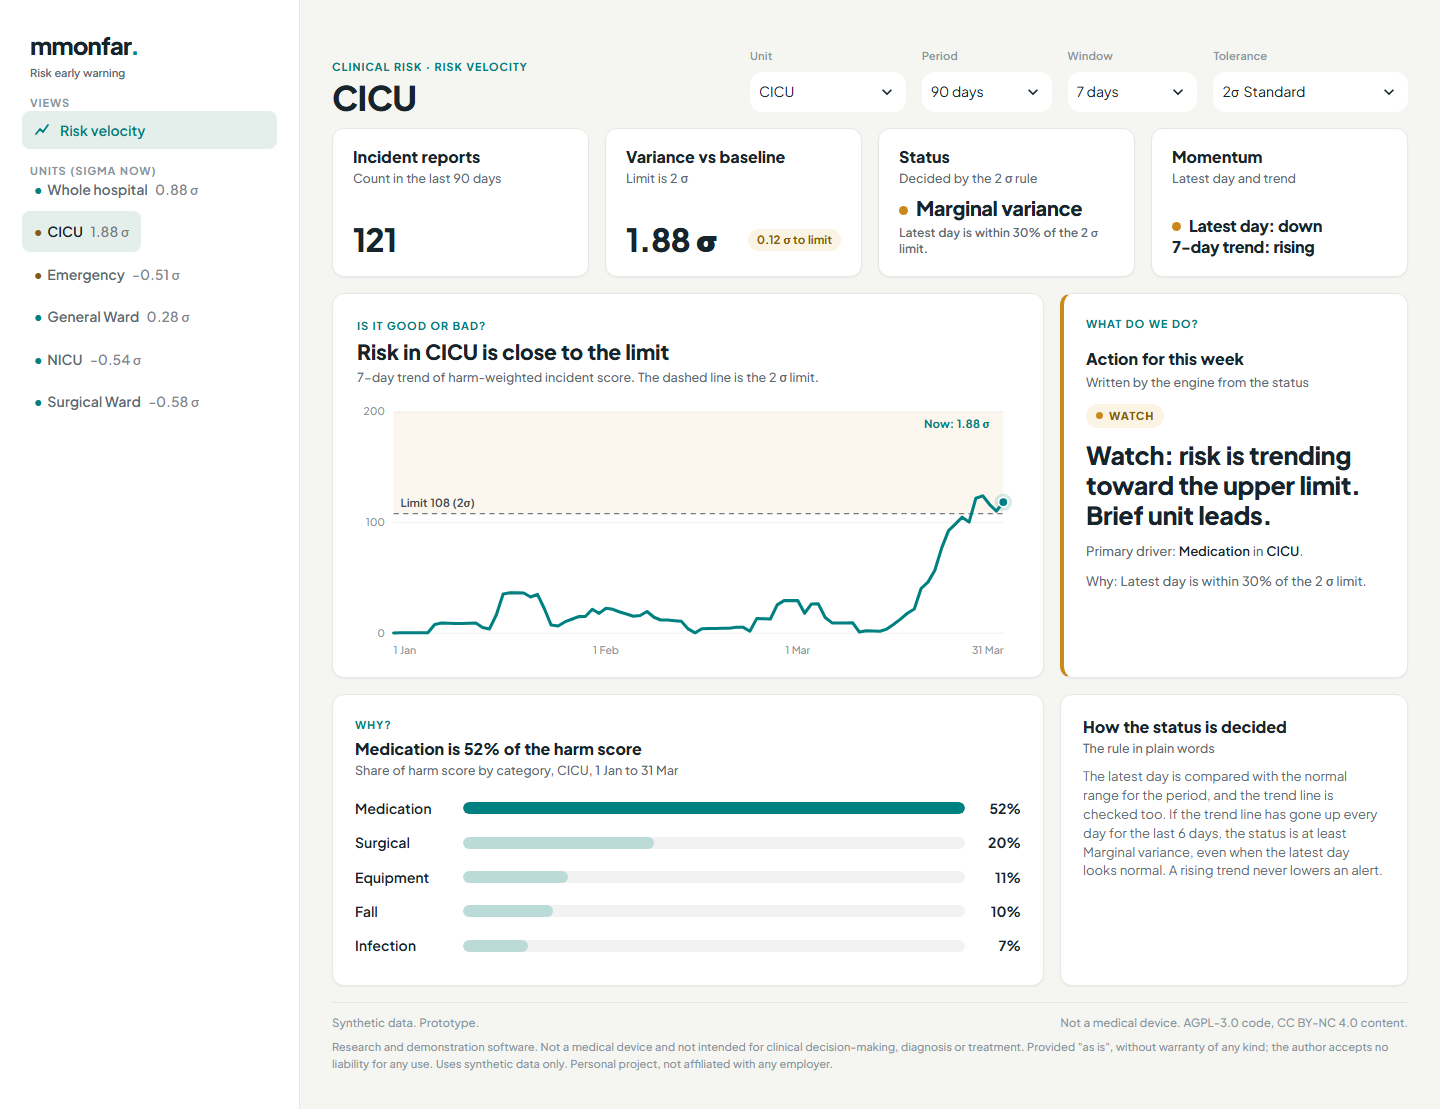
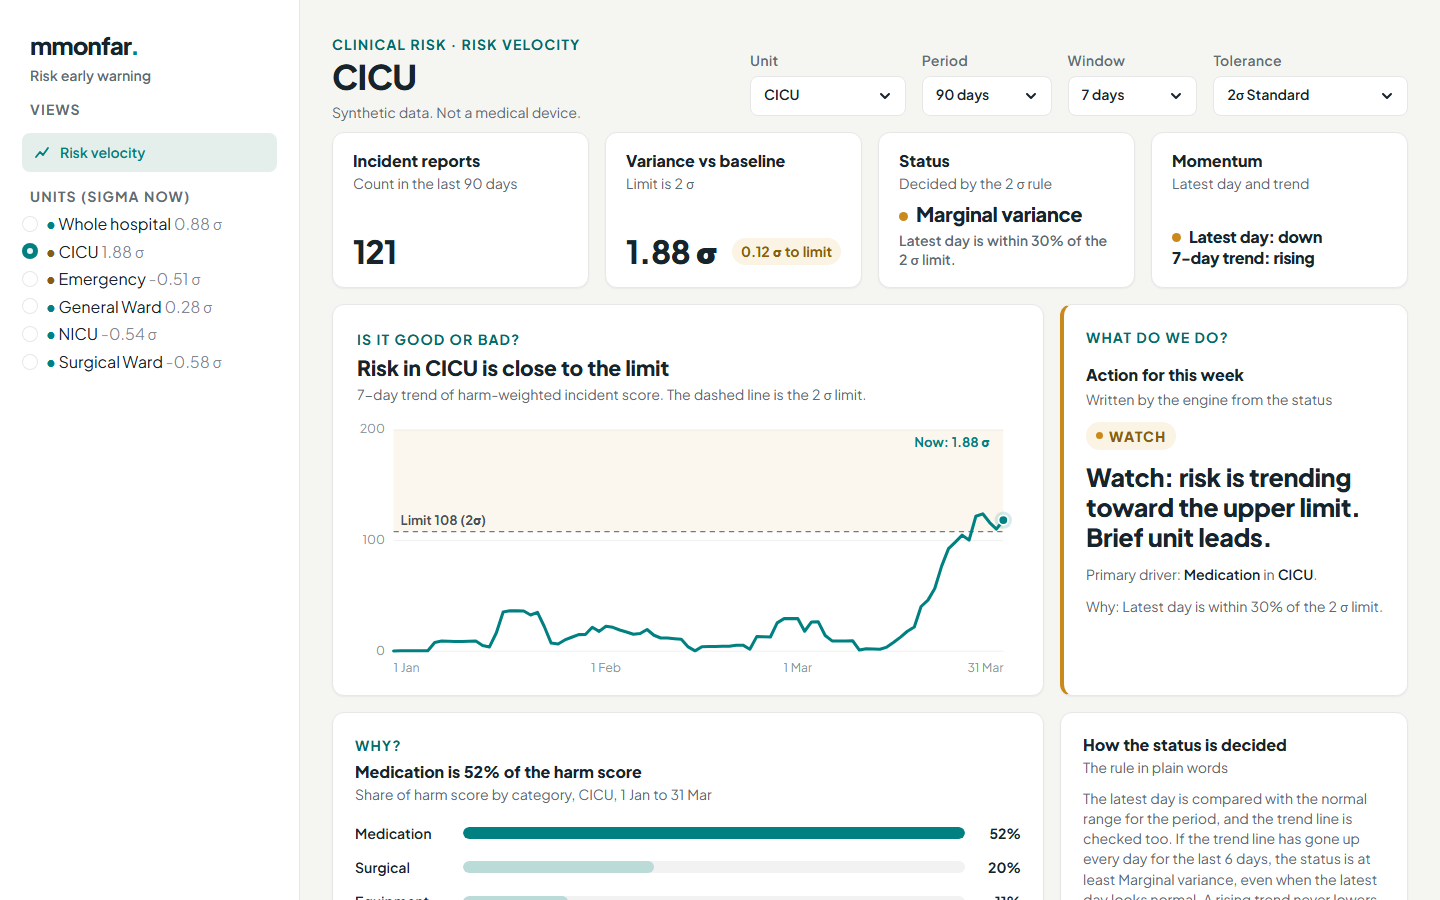
ui: fix units label overlap, 14 px text, AA contrast, phone wordmark, quiet synthetic-data line; new screenshots; ignore local brand-sync files

diff --git a/src/clinical_risk_dashboard/static/style.css b/src/clinical_risk_dashboard/static/style.css
@@ -2,8 +2,8 @@
    Font: Plus Jakarta Sans, local (OFL), injected as base64 by the app: no CDN, no network.
    Canvas #F5F5F2 and 12 px radius are new vs the brand tokens (new tints). */
 @font-face{font-family:"Plus Jakarta Sans";src:url(data:font/woff2;base64,{{FONT_B64}}) format("woff2");font-weight:200 800;font-display:swap}
-:root{--rw-canvas:#F5F5F2;--rw-card:#FFFFFF;--rw-ink:#17242B;--rw-slate:#5B6B73;--rw-mute:#8A979D;--rw-rule:#E6E8E7;
-  --rw-teal:#008080;--rw-teal-tint:#E4EFEB;--rw-amber:#C98A1B;--rw-amber-tint:#FBF3E4;--rw-amber-ink:#8A5E0B;
+:root{--rw-canvas:#F5F5F2;--rw-card:#FFFFFF;--rw-ink:#17242B;--rw-slate:#5B6B73;--rw-mute:#5F6E75;--rw-rule:#E6E8E7;
+  --rw-teal:#008080;--rw-teal-tint:#E4EFEB;--rw-teal-ink:#006B6B;--rw-amber:#C98A1B;--rw-amber-tint:#FBF3E4;--rw-amber-ink:#8A5E0B;
   --rw-red:#B3402F;--rw-red-tint:#F8E9E6;--rw-r:12px;--rw-elev:0 1px 2px rgba(23,36,43,.05);--rw-g:16px}
 
 /* Streamlit frame */
@@ -21,8 +21,8 @@
 /* Left nav */
 .rw-logo{font-weight:800;font-size:24px;letter-spacing:-.04em;color:var(--rw-ink);padding:20px 12px 0}
 .rw-logo i{color:var(--rw-teal);font-style:normal}
-.rw-logo small{display:block;font-size:11px;font-weight:600;color:var(--rw-slate);margin-top:2px;letter-spacing:0}
-.rw-navh{font-size:11px;font-weight:700;letter-spacing:.08em;text-transform:uppercase;color:var(--rw-mute);padding:18px 12px 0}
+.rw-logo small{display:block;font-size:14px;font-weight:600;color:var(--rw-slate);margin-top:2px;letter-spacing:0}
+.rw-navh{font-size:14px;font-weight:700;letter-spacing:.08em;text-transform:uppercase;color:var(--rw-mute);padding:18px 12px 0}
 .rw-navitem{display:flex;align-items:center;gap:10px;padding:9px 12px;border-radius:8px;font-weight:600;color:var(--rw-teal);background:var(--rw-teal-tint);margin:0 4px}
 .rw-navitem svg{width:16px;height:16px;stroke:currentColor;fill:none;stroke-width:1.8;stroke-linecap:round;stroke-linejoin:round}
 [data-testid="stSidebar"] [data-testid="stRadio"] > label{display:none}
@@ -35,31 +35,31 @@
 [data-testid="stSidebar"] [data-testid="stRadioOption"][data-selected="true"] p{color:var(--rw-ink)}
 
 /* Header selectors */
-[data-testid="stSelectbox"] label p{font-size:11px;font-weight:600;color:var(--rw-mute);letter-spacing:.02em}
-[data-testid="stSelectbox"] [data-baseweb="select"] > div{background:var(--rw-card);border:1px solid var(--rw-rule);border-radius:8px;min-height:38px;font-weight:600;font-size:13px}
+[data-testid="stSelectbox"] label p{font-size:14px;font-weight:600;color:var(--rw-mute);letter-spacing:.02em}
+[data-testid="stSelectbox"] [data-baseweb="select"] > div{background:var(--rw-card);border:1px solid var(--rw-rule);border-radius:8px;min-height:38px;font-weight:600;font-size:14px}
 .rw-head{padding-top:6px;margin-bottom:10px}
-.rw-eyebrow{font-size:11px;font-weight:700;letter-spacing:.08em;text-transform:uppercase;color:var(--rw-teal)}
+.rw-eyebrow{font-size:14px;font-weight:700;letter-spacing:.08em;text-transform:uppercase;color:var(--rw-teal-ink)}
 .rw .rw-h1{font-size:34px;font-weight:800;letter-spacing:-.02em;line-height:1.1;margin:4px 0 0;padding:0;color:var(--rw-ink)}
 .rw-kpis,.rw-grid{margin-bottom:var(--rw-g)}
 .rw-sdot{display:inline-block;width:9px;height:9px;border-radius:50%;margin-right:8px;vertical-align:1px}
-.rw-navh{margin-top:6px}
+.rw-navh{margin-top:6px;padding-bottom:14px}
 
 /* Cards */
 .rw,.rw *{font-family:"Plus Jakarta Sans",system-ui,sans-serif;box-sizing:border-box}
 .rw{color:var(--rw-ink);font-size:14px;line-height:1.45;word-spacing:.05em}
 .rw-card{background:var(--rw-card);border:1px solid var(--rw-rule);border-radius:var(--rw-r);box-shadow:var(--rw-elev);padding:22px}
 .rw-t{font-size:16px;font-weight:800;line-height:1.25}
-.rw-st{font-size:12.5px;color:var(--rw-slate);margin-top:2px}
-.rw-qn{font-size:11px;font-weight:700;letter-spacing:.08em;text-transform:uppercase;color:var(--rw-teal);margin-bottom:6px}
+.rw-st{font-size:14px;color:var(--rw-slate);margin-top:2px}
+.rw-qn{font-size:14px;font-weight:700;letter-spacing:.08em;text-transform:uppercase;color:var(--rw-teal-ink);margin-bottom:6px}
 .rw-kpis{display:grid;grid-template-columns:repeat(4,1fr);gap:var(--rw-g)}
 .rw-kpi{padding:18px 20px;min-height:132px;display:flex;flex-direction:column;justify-content:space-between;gap:10px}
 .rw-v{font-size:32px;font-weight:800;letter-spacing:-.02em;line-height:1.1}
 .rw-v.s{font-size:20px}
 .rw-v.s2{font-size:16px;line-height:1.3}
 .rw-row2{display:flex;align-items:center;justify-content:space-between;gap:8px;flex-wrap:wrap}
-.rw-why1{font-size:12px;font-weight:600;color:var(--rw-slate);margin-top:6px;line-height:1.35}
-.rw-delta{display:inline-flex;font-size:11.5px;font-weight:700;border-radius:99px;padding:3px 9px;white-space:nowrap}
-.rw-delta.n{background:#EFF1F0;color:var(--rw-slate)}.rw-delta.t{background:var(--rw-teal-tint);color:var(--rw-teal)}
+.rw-why1{font-size:14px;font-weight:600;color:var(--rw-slate);margin-top:6px;line-height:1.35}
+.rw-delta{display:inline-flex;font-size:14px;font-weight:700;border-radius:99px;padding:3px 9px;white-space:nowrap}
+.rw-delta.n{background:#EFF1F0;color:var(--rw-slate)}.rw-delta.t{background:var(--rw-teal-tint);color:var(--rw-teal-ink)}
 .rw-delta.w{background:var(--rw-amber-tint);color:var(--rw-amber-ink)}.rw-delta.r{background:var(--rw-red-tint);color:var(--rw-red)}
 .rw-grid{display:grid;grid-template-columns:repeat(12,1fr);gap:var(--rw-g)}
 .rw-c8{grid-column:span 8}.rw-c4{grid-column:span 4}
@@ -67,18 +67,21 @@
 .rw-hero .rw-t{font-size:21px;letter-spacing:-.01em}
 .rw-chart{margin-top:12px}
 .rw-m{display:none}
+.rw-quiet{font-size:14px;color:var(--rw-mute);margin-top:4px}
+.rw-mobrand{font-weight:800;font-size:22px;letter-spacing:-.04em;color:var(--rw-ink);margin-bottom:6px}
+.rw-mobrand i{color:var(--rw-teal);font-style:normal}
 .rw-act{border-left:4px solid var(--rw-teal);display:flex;flex-direction:column;gap:12px}
 .rw-act.w{border-left-color:var(--rw-amber)}
 .rw-act.r{border-left-color:var(--rw-red)}
 .rw-act.n{border-left-color:var(--rw-mute)}
-.rw-chip{align-self:flex-start;font-weight:800;font-size:11px;letter-spacing:.08em;padding:4px 10px;border-radius:99px;display:flex;gap:6px;align-items:center}
+.rw-chip{align-self:flex-start;font-weight:800;font-size:14px;letter-spacing:.08em;padding:4px 10px;border-radius:99px;display:flex;gap:6px;align-items:center}
 .rw-chip i{width:7px;height:7px;border-radius:50%}
-.rw-chip.t{background:var(--rw-teal-tint);color:var(--rw-teal)}.rw-chip.t i{background:var(--rw-teal)}
+.rw-chip.t{background:var(--rw-teal-tint);color:var(--rw-teal-ink)}.rw-chip.t i{background:var(--rw-teal)}
 .rw-chip.w{background:var(--rw-amber-tint);color:var(--rw-amber-ink)}.rw-chip.w i{background:var(--rw-amber)}
 .rw-chip.r{background:var(--rw-red-tint);color:var(--rw-red)}.rw-chip.r i{background:var(--rw-red)}
 .rw-chip.n{background:#EFF1F0;color:var(--rw-slate)}.rw-chip.n i{background:var(--rw-mute)}
 .rw-dir{font-size:25px;font-weight:800;letter-spacing:-.015em;line-height:1.2}
-.rw-ctx{color:var(--rw-slate);font-size:13px}
+.rw-ctx{color:var(--rw-slate);font-size:14px}
 .rw-ctx b{color:var(--rw-ink)}
 .rw-drvs{margin-top:12px}
 .rw-drv{display:grid;grid-template-columns:96px 1fr 44px;align-items:center;gap:12px;padding:7px 0}
@@ -86,9 +89,9 @@
 .rw-drv .v{text-align:right;font-weight:700}
 .rw-bar{height:12px;background:#F1F2F1;border-radius:6px;overflow:hidden;display:block}
 .rw-bar i{display:block;height:100%;border-radius:6px}
-.rw-how p{color:var(--rw-slate);font-size:13px;margin-top:10px}
-.rw-foot{display:flex;justify-content:space-between;gap:12px;color:var(--rw-mute);font-size:11.5px;border-top:1px solid var(--rw-rule);padding-top:12px}
-.rw-notice{color:var(--rw-mute);font-size:11px;line-height:1.5;margin-top:8px}
+.rw-how p{color:var(--rw-slate);font-size:14px;margin-top:10px}
+.rw-foot{display:flex;justify-content:space-between;gap:12px;color:var(--rw-mute);font-size:14px;border-top:1px solid var(--rw-rule);padding-top:12px}
+.rw-notice{color:var(--rw-mute);font-size:14px;line-height:1.5;margin-top:8px}
 
 /* Phone */
 @media(max-width:700px){
@@ -101,7 +104,7 @@
 .rw-kpi{padding:14px;min-height:120px}
 .rw-v{font-size:26px}
 .rw-v.s{font-size:15px}
-.rw-v.s2{font-size:13px}
+.rw-v.s2{font-size:14px}
 .rw-grid{display:flex;flex-direction:column;gap:12px}
 .rw-d{display:none}
 .rw-m{display:block}

diff --git a/src/clinical_risk_dashboard/view.py b/src/clinical_risk_dashboard/view.py
@@ -60,8 +60,10 @@ def nav_units_title_html() -> str:
 
 def header_html(scope: str) -> str:
     return (
-        '<div class="rw rw-head"><div class="rw-eyebrow">Clinical risk · Risk velocity</div>'
-        f'<h1 class="rw-h1">{escape(scope)}</h1></div>'
+        '<div class="rw rw-head"><div class="rw-m rw-mobrand">mmonfar<i>.</i></div>'
+        '<div class="rw-eyebrow">Clinical risk · Risk velocity</div>'
+        f'<h1 class="rw-h1">{escape(scope)}</h1>'
+        '<div class="rw-quiet">Synthetic data. Not a medical device.</div></div>'
     )
 
 
@@ -245,8 +247,8 @@ def hero_action_html(
     t = tone(view.colour)
     chip = {"r": "ALERT", "w": "WATCH", "t": "STABLE"}.get(t, "NO DATA")
     head = presentation.headline(status, sigma, scope)
-    desktop = trend_svg(daily, ucl, z, sigma, scope, w=760, h=300, fs=12, pad=(42, 18, 16, 30))
-    phone = trend_svg(daily, ucl, z, sigma, scope, w=340, h=230, fs=11, pad=(32, 10, 12, 28))
+    desktop = trend_svg(daily, ucl, z, sigma, scope, w=760, h=300, fs=14, pad=(42, 18, 16, 30))
+    phone = trend_svg(daily, ucl, z, sigma, scope, w=340, h=230, fs=14, pad=(32, 10, 12, 28))
     driver = (
         f"Primary driver: <b>{escape(hot_category)}</b> in <b>{escape(hot_unit)}</b>."
         if hot_unit != "N/A"
